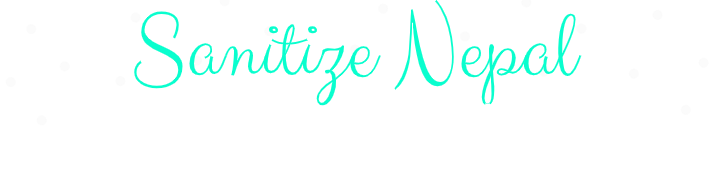
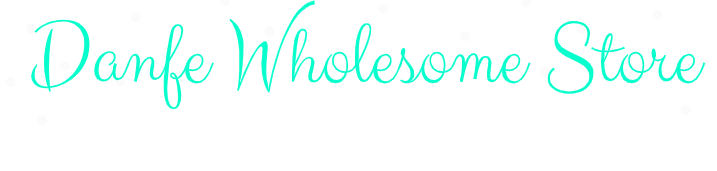
danfe

diff --git a/emailVerify/index.html b/emailVerify/index.html
@@ -489,13 +489,13 @@ body{background-color:#fff}.logo a:hover,.logo a:focus{color:#1e2e3b !important}
 
             <div>
               <div style="mso-line-height-rule: exactly;mso-text-raise: 11px;vertical-align: middle;">
-                <h1 style="Margin-top: 0;Margin-bottom: 0;font-style: normal;font-weight: normal;color: #2c3176;font-size: 30px;line-height: 38px;text-align: center;"><strong>Welcome to Sanitize Nepal</strong></h1><p style="Margin-top: 20px;Margin-bottom: 20px;text-align: center;">Thanks for Joining us. Please click in the button below to verify your account.</p>
+                <h1 style="Margin-top: 0;Margin-bottom: 0;font-style: normal;font-weight: normal;color: #2c3176;font-size: 30px;line-height: 38px;text-align: center;"><strong>Welcome to Danfe</strong></h1><p style="Margin-top: 20px;Margin-bottom: 20px;text-align: center;">Thanks for Joining us. Please click in the button below to verify your account.</p>
               </div>
             </div>
 
             <div>
               <div class="btn btn--flat btn--large" style="Margin-bottom: 20px;text-align: center;">
-                <a style="border-radius: 4px;display: inline-block;font-size: 16px;line-height: 24px;padding: 12px 24px;text-align: center;text-decoration: none !important;transition: opacity 0.1s ease-in;color: white;background-color: #268235;font-family: Montserrat, DejaVu Sans, Verdana, sans-serif;" href="https://example.com/">Verify Now</a>
+                <a style="border-radius: 4px;display: inline-block;font-size: 16px;line-height: 24px;padding: 12px 24px;text-align: center;text-decoration: none !important;transition: opacity 0.1s ease-in;color: white;background-color: #268235;font-family: Montserrat, DejaVu Sans, Verdana, sans-serif;" href="{{ verifyEmailAddressUrl }}?token={{ user.verificationToken }}">Verify Now</a>
               </div>
             </div>
 
@@ -521,8 +521,8 @@ body{background-color:#fff}.logo a:hover,.logo a:focus{color:#1e2e3b !important}
 
               <div>
                 <div style="mso-line-height-rule: exactly;mso-text-raise: 11px;vertical-align: middle;">
-                  <h2 style="margin-top: 15px;margin-bottom: 0;font-style: normal;font-weight: normal;color: #2c3176;font-size: 26px;line-height: 34px;text-align: center;"><span style="color:#ffffff">We have a goal to achieve &nbsp;<br />
-          Germ-free Nepal</span></h2><p style="Margin-top: 16px;Margin-bottom: 20px; text-align: center;"><span style="color:#ffffff">Join us in this Campaign. We assist people with sanitation tools and techniques to help them have a healthy lifestyle. <br/> <br/> #SanitizeNepal #CleanNepal #HygienicNepal </span></p>
+                  <h2 style="margin-top: 15px;margin-bottom: 0;font-style: normal;font-weight: normal;color: #2c3176;font-size: 26px;line-height: 34px;text-align: center;"><span style="color:#ffffff">We have a goal to promote &nbsp;<br />
+          Hygienic Shopping</span></h2><p style="Margin-top: 16px;Margin-bottom: 20px; text-align: center;"><span style="color:#ffffff">Join us in this Mission. We assist people with clean and hygienic shopping tools and techniques to help them achieve a healthier and cleaner lifestyle. <br/> <br/> #DanfeShopping #CleanShopping #HygienicShopping </span></p>
                 </div>
               </div>
 
@@ -566,24 +566,25 @@ body{background-color:#fff}.logo a:hover,.logo a:focus{color:#1e2e3b !important}
           <tr style="margin-top:50px; text-align:center;">
 
             <td width="90%" style="margin-left:10%; margin-right:10%; font:normal 15px arial; line-height:19px; color:#51505d;padding-top:10px;padding-bottom:10px;">
-			✔ Sanitation Goods, Techniques and Packages optimized as per individuals, families and businesses
+			✔ Sanitized Goods, Techniques and Packages optimized as per individuals, families and businesses
 			</td>
           </tr>
 		  
           <tr style="margin-top:50px">
             
             <td width="100%" style="margin-left:10%; margin-right:10%;font:normal 15px arial;line-height:19px;color:#51505d;padding-top:10px;padding-bottom:10px">
-			✔ Professional Hygiene and Cleaning Services optimized to level of germs, bacteria and virus removal
+			✔ Professional Healthsome Services streamlined to every community standards
             
 			</td>
           </tr>
           
 		  <tr style="margin-top:50px">
 
-            <td width="100%" style="margin-left:10%; margin-right:10%;font:normal 15px arial;line-height:19px;color:#51505d;padding-top:10px; padding-bottom:30px;">
-			✔ 24/7 Consultation and Support related to sanitation and hygiene from industry level experts
+            <td width="100%" style="margin-left:10%; margin-right:10%;font:normal 15px arial;line-height:19px;color:#51505d;padding-top:10px;padding-bottom:30px;">
+			✔ Clean, Hygienic, Risk Free and Eco-Friendly Delivery Services
             </td>
           </tr>
+		  
         
 		</tbody>
       </table>
@@ -626,11 +627,11 @@ body{background-color:#fff}.logo a:hover,.logo a:focus{color:#1e2e3b !important}
 
               <div style="margin-left: 20px;margin-right: 0px; margin-top:20px; margin-bottom:10px;">
                 <div style="mso-line-height-rule: exactly;mso-text-raise: 11px;vertical-align: middle;">
-                  <p class="size-22" style="margin-top: 0;margin-bottom: 10px;font-size: 18px;line-height: 26px;text-align: center;" lang="x-size-22"><span style="color:#ffffff;"><strong>#SanitizeNepal #CleanNepal #HygienicNepal
+                  <p class="size-22" style="margin-top: 0;margin-bottom: 10px;font-size: 18px;line-height: 26px;text-align: center;" lang="x-size-22"><span style="color:#ffffff;"><strong>#DanfeShopping #CleanShopping #HygienicShopping
 
  
 </strong></span>
-<br/>
+<br/><br/>
 <span style="color:#ffffff">
           Feel free to use these hashtags on social media to support us</span></p>
                 </div>
@@ -649,19 +650,19 @@ body{background-color:#fff}.logo a:hover,.logo a:focus{color:#1e2e3b !important}
       <div style="text-align:center">
 	  
         <div role="" style="display:inline-block ; height:200px" >
-                        <p style="font-size:20px;letter-spacing:2px;font-weight:520; margin-top:60px; margin-bottom:30px;"> Coming Soon On ...</p>
+                        <p style="font-size:20px;letter-spacing:2px; margin-top:60px; margin-bottom:30px;"> Coming Soon On ...</p>
                   
 				  <div>
-                        <a href="#" style="margin-right:5px;" >
+                        <!--a href="#" style="margin-right:5px;" -->
                           <!--img src="https://sanitizenp.s3.eu-west-2.amazonaws.com/try/images/iphone.png" border='0' width='160' height='50' alt='App store' title="Available on the App store"-->
 						  <img src="https://cdn0.iconfinder.com/data/icons/flat-round-system/512/apple-512.png" border='0' width='80'  alt='App store' title="App store">
-                        </a>
+                        <!--/a-->
                       
                       
-                        <a href="#" >
+                        <!--a href="#"-->
                           <!--img src="https://sanitizenp.s3.eu-west-2.amazonaws.com/try/images/android.png" border='0' width='160' height='50' alt='Play store' title="Get it on the Play store"-->
 						  <img src="https://cdn0.iconfinder.com/data/icons/communication-icons-rounded/110/Android-512.png" border='0' width='80' alt='Play store' title="Play store">
-                        </a>
+                        <!--/a-->
                       
                    
 				   </div>
